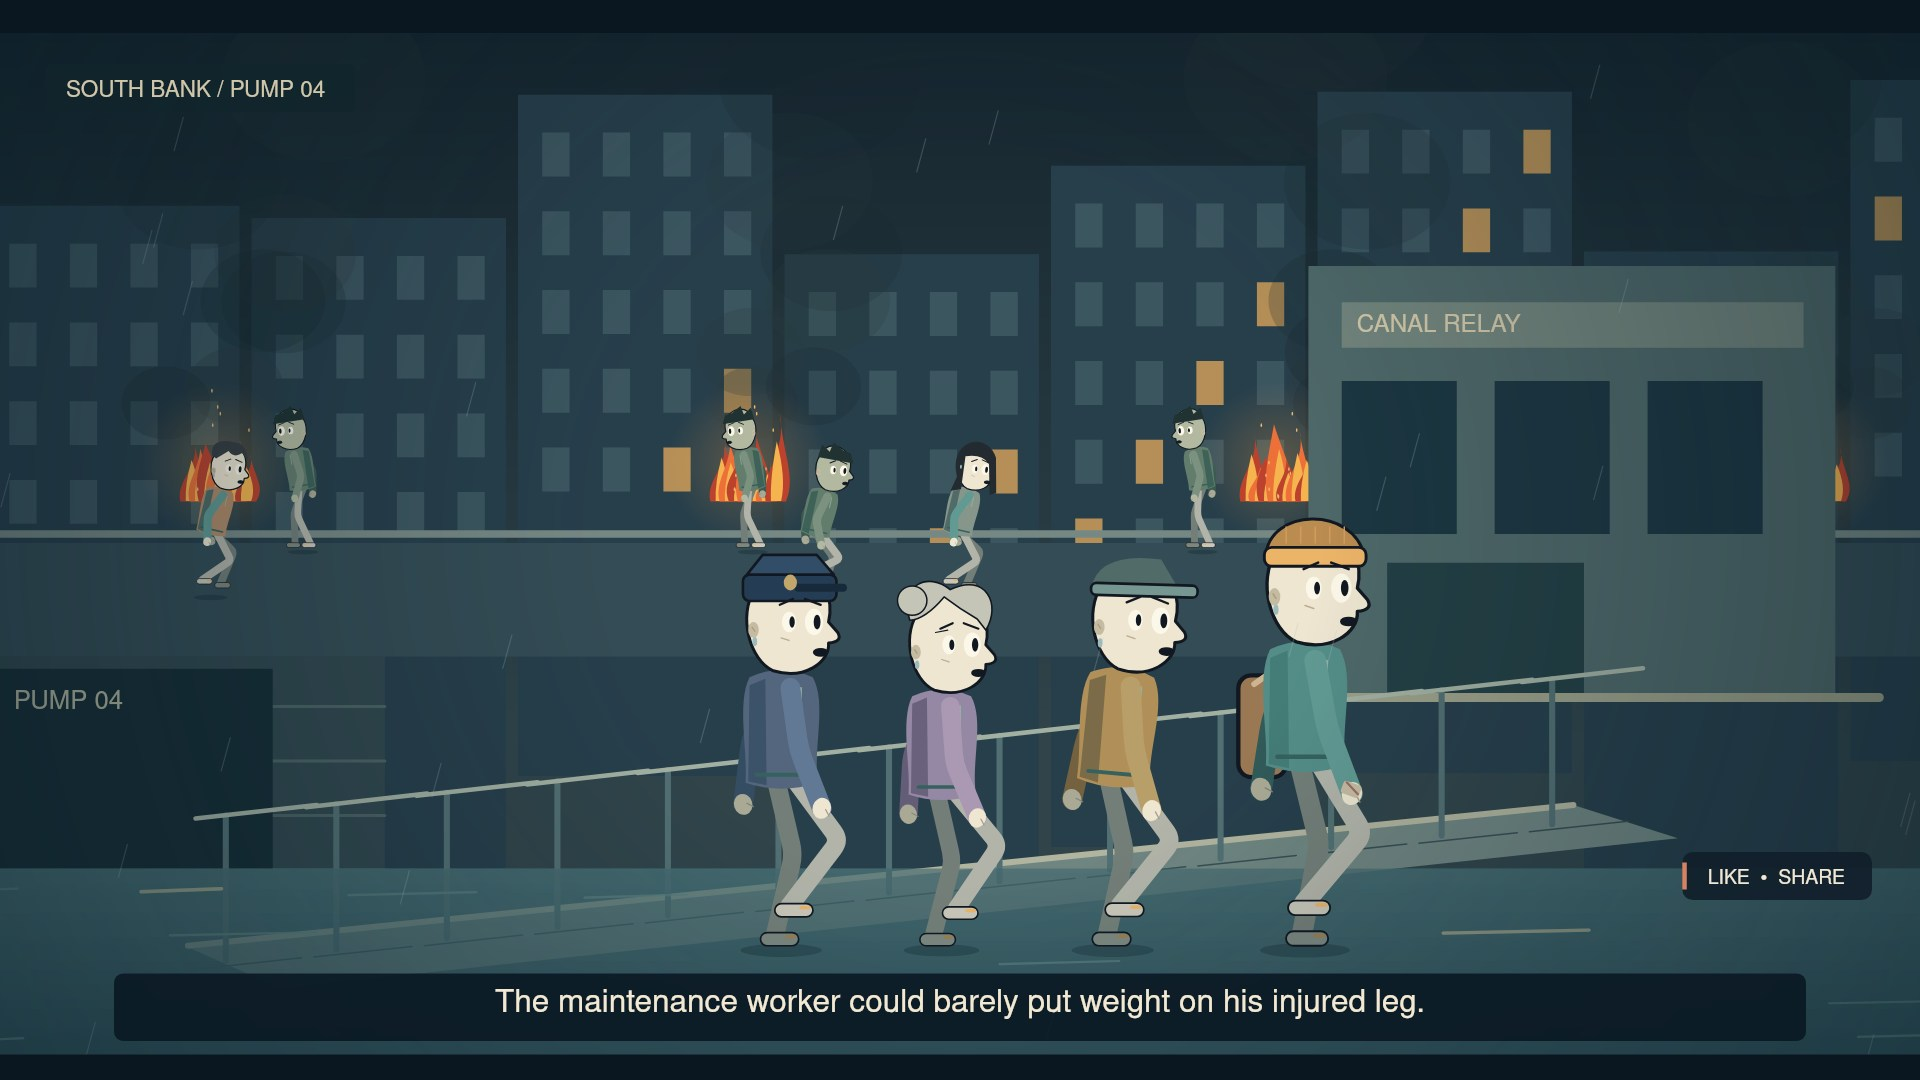
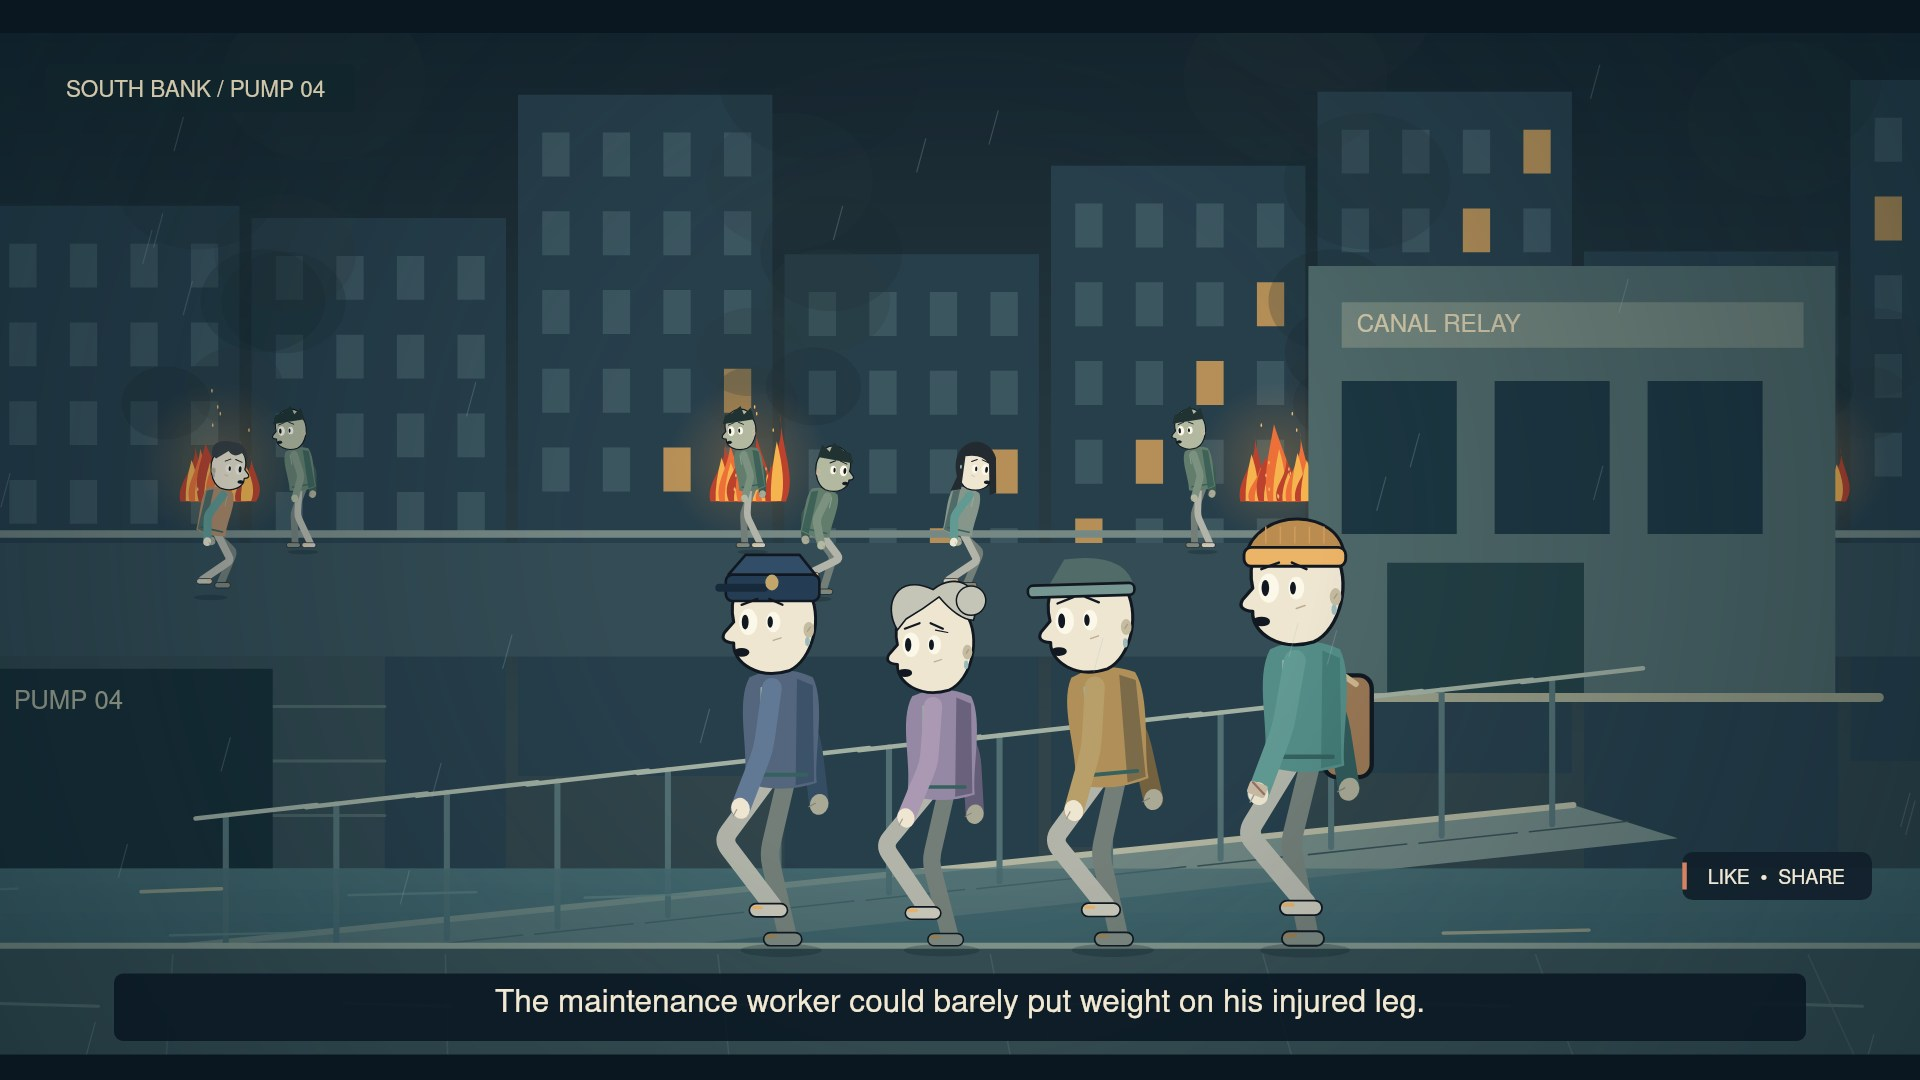
Refine Day 3 bank support and travel direction

Changed region(s): [[0.0, 0.4583, 1.0, 0.8861]]

diff --git a/zumbi/zumbi 3/projeto/film.js b/zumbi/zumbi 3/projeto/film.js
@@ -50,6 +50,7 @@ function canal(c,t,opts={}){
  if(opts.gate){const shake=opts.threat?Math.sin(t*19)*2:0,gw=opts.open?12:93;box(c,163+shake,385,13,253,'#96a59a');for(let i=0;i<5;i++)line(c,[[176+shake+i*gw/5,402],[176+shake+i*gw/5,632]],'#7e958c',5);line(c,[[176+shake,405],[176+gw+shake,405],[176+gw+shake,631],[176+shake,631]],'#82988e',7)}
 }
 function rain(c,t,amount=.55){c.save();c.globalAlpha=amount;for(let i=0;i<55;i++){let x=(hash(i)*1600+t*38)%1550-150,y=(hash(i+45)*1000+t*(240+hash(i)*140))%1000-150;line(c,[[x,y],[x-6,y+22]],'#adc4c1',.75)}c.restore()}
+function bankLedge(c,y){box(c,-600,y,2500,500,'#364e53');line(c,[[-600,y],[1880,y]],'#82958b',4);for(let i=0;i<9;i++)line(c,[[i*180-60,y+6],[i*203-100,y+270]],'#465e61',1);for(let i=0;i<6;i++)line(c,[[i*233,y+38],[i*233+71,y+40]],'#536c6c',2)}
 function pump(c,t,night=false){box(c,-500,-300,2300,1400,'#253e46');box(c,-500,581,2300,600,'#3c5356');for(let i=0;i<8;i++){line(c,[[i*180,581],[i*200-70,900]],'#4b6667',1);line(c,[[i*180,-100],[i*180,581]],'#3e5960',3)}box(c,810,92,400,309,'#101f2c');c.save();c.beginPath();c.rect(820,101,378,286);c.clip();c.translate(791,90);c.scale(.37,.51);canal(c,t,{night,blink:true});c.restore();line(c,[[1005,94],[1005,403]],'#708a88',6);line(c,[[810,259],[1206,259]],'#708a88',6);
  box(c,35,138,230,442,'#526a69');box(c,55,165,190,383,'#223b42');box(c,196,354,27,8,'#b6ab83');text(c,'INSPECTION ACCESS',44,123,14);box(c,308,443,202,138,'#647c75',4);for(let i=0;i<3;i++){box(c,325+i*55,460,40,41,'#243d43');oval(c,344+i*55,481,14,14,'#aeb29b');line(c,[[344+i*55,481],[349+i*55,469]],'#3b5557',2)}
  box(c,302,205,299,171,'#b9b59a',4);text(c,'LOCK / SERVICE ROUTE',321,232,14,'#394f50');line(c,[[328,264],[413,264],[413,337],[565,337]],'#6b8277',12);line(c,[[328,264],[413,264],[413,337],[565,337]],'#315d63',3);text(c,'WEST',321,292,11,'#56695e');text(c,'EAST',522,321,11,'#56695e');lamp(c,650,83,t,night);box(c,510,548,215,33,'#8a8266',3);
@@ -65,12 +66,12 @@ function mapDetail(c,t,kind){box(c,-50,-50,1400,850,'#203a44');box(c,189,100,901
 function consoleDetail(c,t,interrupt=false){box(c,-50,-50,1400,850,'#203841');box(c,170,164,924,403,'#56796d',14);box(c,225,221,560,97,interrupt?'#db8b67':'#d3bd84',7);text(c,'87.0',255,294,67,'#304c49');text(c,interrupt?'INCOMING TRANSMISSION':'CANAL RELAY / TRANSMIT',230,357,24,'#e8dac0');for(let i=0;i<8;i++){let h=12+Math.abs(Math.sin(t*7+i*1.8))*65;box(c,830+i*22,319-h,12,h,'#dbb674',2)}for(let j=0;j<7;j++)line(c,[[231,402+j*14],[787,402+j*14]],'#2c4d49',5);oval(c,929,469,47,47,'#bfaf85');line(c,[[929,469],[953,444]],'#364f48',7);line(c,[[1020,140],[1020,405]],'#172b32',10);oval(c,1020,140,29,42,'#aab4a4');}
 function at(key,fallback=0){return S.scenes.find(s=>s.key===key)?.start??fallback}
 function span(t,a,b){return ease((t-a)/Math.max(.01,b-a))}
-function castLine(c,t,x=450,y=625,mode='idle',travel=0){actor(c,'police',x-245,y,.87,t,mode,{travel:travel/.87});actor(c,'elder',x-139,y,.81,t+.3,mode,{travel:travel/.81});actor(c,'worker',x-26,y,.88,t+.6,mode,{travel:travel/.88,lean:mode==='walk'?.09:0});return actor(c,'hero',x+101,y,.96,t,mode,{travel:travel/.96})}
+function castLine(c,t,x=450,y=625,mode='idle',travel=0,facing=1){actor(c,'police',x-245,y,.87,t,mode,{travel:travel/.87,facing});actor(c,'elder',x-139,y,.81,t+.3,mode,{travel:travel/.81,facing});actor(c,'worker',x-26,y,.88,t+.6,mode,{travel:travel/.88,facing,lean:mode==='walk'?.09:0});return actor(c,'hero',x+101,y,.96,t,mode,{travel:travel/.96,facing})}
 function stage(c,s,u,t){const p=clamp(u/(s.end-s.start));
  switch(s.kind){
- case 'bank':{canal(c,t,{night:true,blink:s.key==='search'});if(s.key==='name'){actor(c,'elder',352,632,.88,t,'idle',{look:1});actor(c,'worker',480,632,.93,t,'sit',{mood:'tired'});const g=actor(c,'hero',684,637,1.15,t,'pack',{reach:[69,-188],farReach:[20,-183],look:-1});radio(c,g.right[0]+13,g.right[1],.35,t);actor(c,'police',822,632,1.04,t,'reach',{facing:-1,reach:[67,-191]})}else castLine(c,t,480,632,'idle');rain(c,t,.22);break}
- case 'approach':{canal(c,t,{night:true});let x=mix(791,350,ease(p));castLine(c,t,x,633,'walk',Math.abs(x-791));rain(c,t,.25);break}
- case 'flood':{canal(c,t,{night:true});actor(c,'hero',341,638,.93,t,'pack',{lookY:1});actor(c,'worker',236,630,.87,t,'sit',{lookY:.9});rain(c,t,.24);break}
+ case 'bank':{canal(c,t,{night:true,blink:s.key==='search'});bankLedge(c,637);if(s.key==='name'){actor(c,'elder',352,637,.88,t,'idle',{look:1});actor(c,'worker',480,637,.93,t,'idle',{mood:'tired'});const g=actor(c,'hero',684,637,1.15,t,'pack',{reach:[69,-188],farReach:[20,-183],look:-1});radio(c,g.right[0]+13,g.right[1],.35,t);actor(c,'police',822,637,1.04,t,'reach',{facing:-1,reach:[67,-191]})}else castLine(c,t,480,637,'idle');rain(c,t,.22);break}
+ case 'approach':{canal(c,t,{night:true});bankLedge(c,633);let x=mix(791,350,ease(p));castLine(c,t,x,633,'walk',Math.abs(x-791),-1);rain(c,t,.25);break}
+ case 'flood':{canal(c,t,{night:true});bankLedge(c,638);box(c,196,568,80,70,'#566c65',4);actor(c,'hero',341,638,.93,t,'pack',{lookY:1});actor(c,'worker',236,638,.87,t,'sit',{lookY:.9});rain(c,t,.24);break}
  case 'night':{pump(c,t,true);actor(c,'worker',442,592,.94,t,'floorSit',{closed:.9,mood:'tired'});actor(c,'elder',566,592,.90,t,'floorSit',{mood:'tired'});actor(c,'police',214,592,.98,t,'idle',{facing:-1,look:-1});const g=actor(c,'hero',722,592,1.02,t,'floorSit',{closed:Math.sin(t*.6)>.7?1:0,mood:'tired',reach:[58,-150]});radio(c,g.right[0]+15,g.right[1]+5,.35,t);box(c,532,559,20,31,'#b4c1a3',3);break}
  case 'blink':{pump(c,t,true);actor(c,'hero',864,596,1.19,t,'hope',{reach:p>.3?[32,-269]:[45,-193],facing:1,mood:'hope'});actor(c,'police',611,596,.97,t,'listen',{mood:'alert'});break}
  case 'bridge':{bridge(c,t,s.key==='crowds');water(c,t,555,.15);if(s.key!=='crowds'){actor(c,'hero',799,827,1.58,t,'idle',{look:-1,facing:-1});actor(c,'police',1132,817,1.46,t,'idle',{look:-1,facing:-1})}rain(c,t,.17);break}
@@ -85,7 +86,7 @@ function stage(c,s,u,t){const p=clamp(u/(s.end-s.start));
  const op=span(t,a,b+8),ep=span(t,a+3,b+12),wp=span(t,b,end-7),hp=t<e?span(t,b,e)*.15:t<h?.15:mix(.15,1,span(t,h,end));
  let ox=mix(280,1240,op),ex=mix(160,1130,ep),wx=mix(190,1040,wp),hx=t<h?mix(80,350,span(t,b,e)):mix(350,1054,span(t,h,end));
  if(t>=g&&t<h)ox=mix(1240,450,span(t,g,h));else if(t>=h)ox=hx+100;
- actor(c,'police',ox,y(ox),.83,t,t>=g?'run':op<1?'walk':'idle',{travel:Math.abs(ox-280)/.83,facing:t>=g&&t<h?-1:1,lean:t>=g?.20:.10,farReach:t>=h?[-65,-186]:undefined,supportSlope:-.103});actor(c,'elder',ex,y(ex),.77,t,ep<1?'walk':'idle',{travel:(ex-160)/.77,gaitWeight:ep<1?1:0,lean:.04,supportSlope:-.103});if(t>=b)actor(c,'worker',wx,y(wx),.84,t,wp<1?'walk':'idle',{travel:(wx-190)/.84,lean:.13,reach:[45,-140],mood:'tired',supportSlope:-.103});
+ actor(c,'police',ox,y(ox),.83,t,t>=g?'run':op<1?'walk':'idle',{travel:(t>=g&&t<h?1240-ox:Math.abs(ox-280))/.83,facing:t>=g&&t<h?-1:1,lean:t>=g?.20:.10,farReach:t>=h?[-65,-186]:undefined,supportSlope:-.103});actor(c,'elder',ex,y(ex),.77,t,ep<1?'walk':'idle',{travel:(ex-160)/.77,gaitWeight:ep<1?1:0,lean:.04,supportSlope:-.103});if(t>=b)actor(c,'worker',wx,y(wx),.84,t,wp<1?'walk':'idle',{travel:(wx-190)/.84,lean:.13,reach:[45,-140],mood:'tired',supportSlope:-.103});
  if(s.kind==='gate'||s.kind==='chain'){hx=350;const gg=actor(c,'hero',hx,y(hx),.98,t,'push',{facing:-1,reach:[83,-182],farReach:[77,-158],recoil:.2*Math.max(0,Math.sin(t*9)),lean:.21});if(s.kind==='chain'){const q=span(t,f,f+Math.min(5,s.end-s.start));line(c,[[269,464],[mix(gg.right[0],270,q),mix(gg.right[1],503,q)],[269,535]],'#bdac80',4);for(let i=0;i<8;i++)oval(c,268+i*2,479+i*7,5,3,'#a5a18a')} }
  else if(t>=b){const stumble=s.kind==='escape'?Math.sin(clamp((u-4)/1.2)*Math.PI):0;actor(c,'hero',hx,y(hx)-stumble*4,.97,t,s.kind==='escape'?'run':s.key==='return'?'hope':'walk',{travel:(hx-80)/.97,lean:s.kind==='escape'?.22+stumble*.15:.13,reach:s.kind==='escape'?[57,-190]:s.key==='follow'?[82,-177]:undefined,supportSlope:-.103});if(stumble>0){box(c,hx-35,y(hx)+3,72,7,'#0a242e');c.save();c.translate(hx-35,y(hx)+2);c.rotate(stumble*.17);box(c,0,0,72,5,'#a4aca0');c.restore()}}
  if(t>=f+5&&s.kind!=='chain'){line(c,[[176,486],[269,511],[176,535]],'#bdac80',4);for(let i=0;i<9;i++)oval(c,182+i*10,489+i*2.5,5,3,'#a5a18a')}
